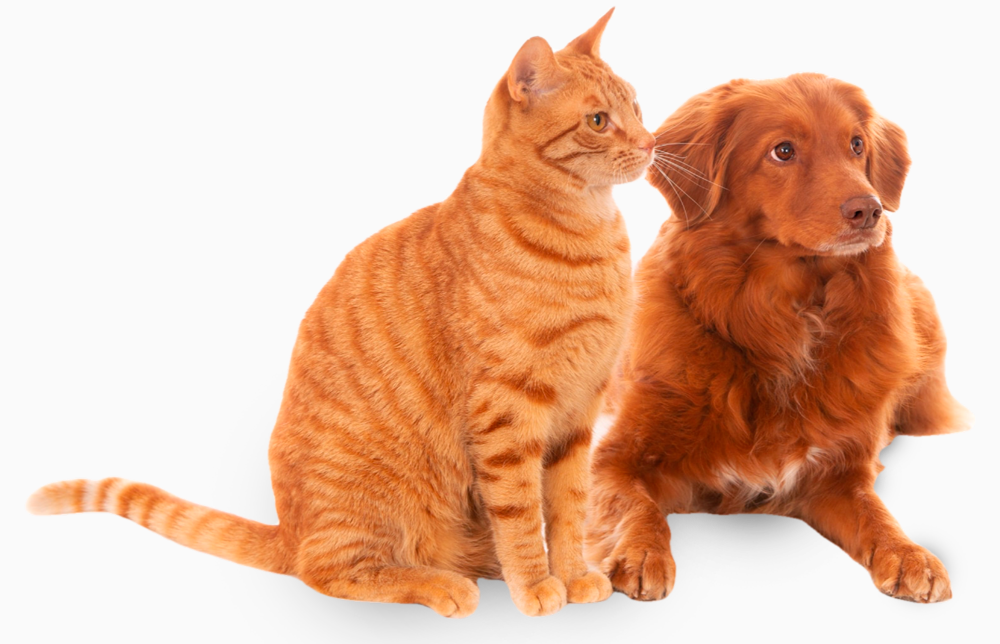
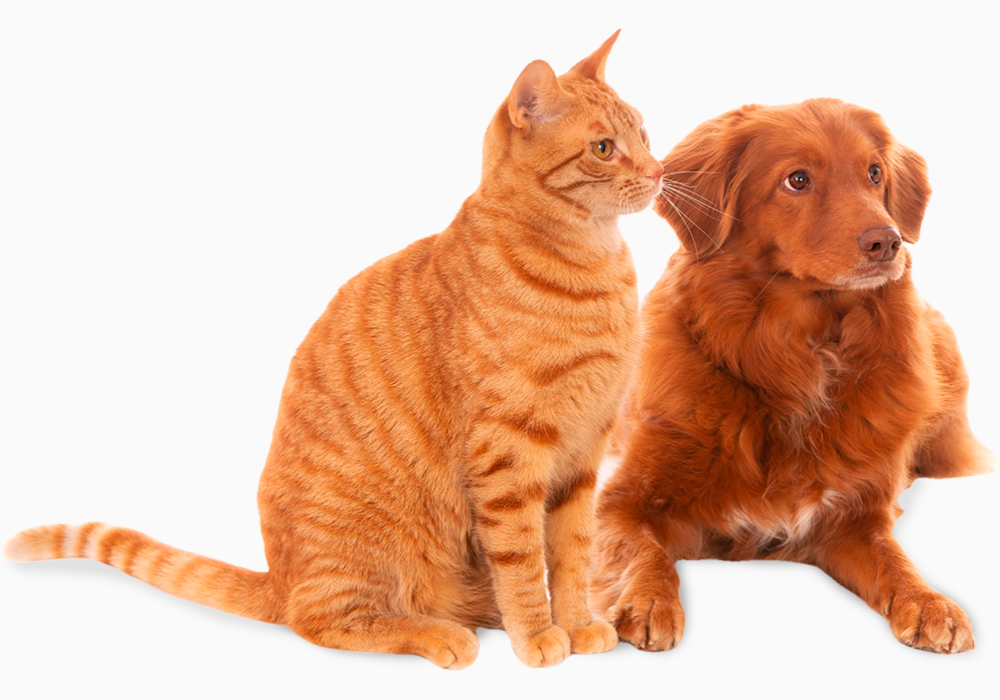
finalizado about

Changed region(s): [[0.0, 0.0, 0.992, 0.9938]]

diff --git a/css/style.scss b/css/style.scss
@@ -36,11 +36,9 @@ header {
     justify-content: space-between;
     align-items: center;
     p:first-child {
-        color:$rosa;
-        @include titulo(2);
+        @include titulo(2, $rosa);
     } p:last-child {
-        @include texto-simples(1);
-        color: $branco
+        @include texto-simples(1, $branco);
     }
     @include device(1000px) {
         margin: 0 30px;
@@ -61,8 +59,7 @@ nav {
                 border-bottom: 2px solid $rosa;
             }   
         } a {
-            @include texto-simples(1);
-            color: $branco;
+            @include texto-simples(1, $branco);
         } 
     }
 }
@@ -76,26 +73,24 @@ nav {
     img {
         max-width: 40%;
         height: auto;
+        margin: 0 auto;
         @include device(750px) {
             max-width: 60%;
         }
     }
     h1 {
-        @include titulo(3);
-        color: $branco;
+        @include titulo(3, $branco);
         font-weight: normal;
         margin-bottom: 20px;
     }
     p {
-        @include texto-simples(0.95);
-        color: $branco;
+        @include texto-simples(0.95, $branco);
         margin-bottom: 40px;
     }
     a {
-        @include titulo(1);
+        @include titulo(1, $cinza-escuro);
         padding: 10px 40px;
         background-color: $rosa;
-        color: $cinza-escuro;
         border-radius: 30px;
         font-weight: bold;
         transition: all .5s ease-in-out;
@@ -109,5 +104,45 @@ nav {
     }
     @include device(750px) {
         flex-direction: column;
+        text-align: center;
     }
+} 
+
+// about
+
+.about {
+    background-color: $branco;
+    padding: 100px 0;
+    @include device(1000px) {
+        padding: 30px;
+    }
+    & > div {
+        @include container;
+        align-items: center;
+        justify-content: space-between;
+        @include device(750px) {
+            flex-direction:column-reverse;
+        }
+        img {
+            max-width: 55%;
+            @include device(750px) {
+                max-width: 80%;
+            }
+        }
+        .text-about {
+            max-width: 40%;
+            @include device(750px) {
+                max-width: 80%;
+            }
+        }
+    } h2 {
+        @include titulo(2, $cinza-escuro);
+        margin-bottom: 20px;
+        font-weight: normal;
+        @include device(750px) {
+            text-align: center;
+        }
+    } p {
+        @include texto-simples(0.95, $cinza-escuro);
+    } 
 } 

diff --git a/index.html b/index.html
@@ -51,28 +51,30 @@
 
     <section class="about">
         <div>
+        
             <img src="imagens/about.png" alt="gato e cachorro ambos laranjas">
+            
+
+            <div class="text-about">
+                <h2>
+                    About the shelter <br>
+                    "Cozy House"
+                </h2>
+                <p>
+                    Lorem Ipsum is simply dummy text of the printing and typesetting industry. 
+                    Lorem Ipsum has been the industry's standard dummy text ever since the 1500s, 
+                    when an unknown printer took a galley of type and scrambled it to make a type specimen book
+                    
+                    <br><br>
+
+                    It has survived not only five centuries, but also the leap into electronic typesetting,
+                    remaining essentially unchanged. It was popularised in the 1960s with the release of 
+                    Letraset sheets containing Lorem Ipsum passages, and more recently with desktop publishing 
+                    software like Aldus PageMaker including versions of Lorem Ipsum. 
+                </p>
+            </div>
         </div>
 
-        <div>
-            <h2>
-                About the shelter <br>
-                "Cozy House"
-            </h2>
-            <p>
-                Lorem Ipsum is simply dummy text of the printing and typesetting industry. <br>
-                Lorem Ipsum has been the industry's standard dummy text ever since the 1500s, <br>
-                when an unknown printer took a galley of type and scrambled it to make a type specimen book
-                <br><br>
-
-                It has survived not only five centuries, but also the leap into electronic typesetting, <br>
-                remaining essentially unchanged. It was popularised in the 1960s with the release of <br>
-                Letraset sheets containing Lorem Ipsum passages, and more recently with desktop publishing <br>
-                software like Aldus PageMaker including versions of Lorem Ipsum. <br>
-                It is a long established fact that a reader will be distracted by the readable content of <br>
-                a page when looking at its layout. The point of using Lorem Ipsum is that it has a more-or-less.
-            </p>
-        </div>
     </section>
 
     <main>

diff --git a/css/style.css b/css/style.css
@@ -39,9 +39,9 @@ header {
   align-items: center;
 }
 .header p:first-child {
-  color: #eccfbb;
   font-size: 2rem;
   font-family: "Crimson Text", serif;
+  color: #eccfbb;
 }
 .header p:last-child {
   font-size: 1rem;
@@ -87,6 +87,7 @@ nav ul a {
 .intro img {
   max-width: 40%;
   height: auto;
+  margin: 0 auto;
 }
 @media screen and (max-width: 750px) {
   .intro img {
@@ -109,9 +110,9 @@ nav ul a {
 .intro a {
   font-size: 1rem;
   font-family: "Crimson Text", serif;
+  color: #545454;
   padding: 10px 40px;
   background-color: #eccfbb;
-  color: #545454;
   border-radius: 30px;
   font-weight: bold;
   transition: all 0.5s ease-in-out;
@@ -128,5 +129,62 @@ nav ul a {
 @media screen and (max-width: 750px) {
   .intro {
     flex-direction: column;
+    text-align: center;
   }
+}
+
+.about {
+  background-color: #fafafa;
+  padding: 100px 0;
+}
+@media screen and (max-width: 1000px) {
+  .about {
+    padding: 30px;
+  }
+}
+.about > div {
+  max-width: 1000px;
+  display: flex;
+  margin: 0 auto;
+  flex-wrap: wrap;
+  align-items: center;
+  justify-content: space-between;
+}
+@media screen and (max-width: 750px) {
+  .about > div {
+    flex-direction: column-reverse;
+  }
+}
+.about > div img {
+  max-width: 55%;
+}
+@media screen and (max-width: 750px) {
+  .about > div img {
+    max-width: 80%;
+  }
+}
+.about > div .text-about {
+  max-width: 40%;
+}
+@media screen and (max-width: 750px) {
+  .about > div .text-about {
+    max-width: 80%;
+  }
+}
+.about h2 {
+  font-size: 2rem;
+  font-family: "Crimson Text", serif;
+  color: #545454;
+  margin-bottom: 20px;
+  font-weight: normal;
+}
+@media screen and (max-width: 750px) {
+  .about h2 {
+    text-align: center;
+  }
+}
+.about p {
+  font-size: 0.95rem;
+  font-family: "Tahoma";
+  color: #545454;
 }/*# sourceMappingURL=style.css.map */

diff --git a/css/_variaveis-e-mixins.scss b/css/_variaveis-e-mixins.scss
@@ -6,14 +6,16 @@ $cinza-escuro: #545454;
 $font-1: 'Crimson Text', serif;
 $font-2: 'Tahoma';
 
-@mixin titulo($size) {
+@mixin titulo($size, $color) {
     font-size: $size + rem;
     font-family: $font-1;
+    color: $color;
 }
 
-@mixin texto-simples($size) {
+@mixin texto-simples($size, $color) {
     font-size: $size + rem;
     font-family: $font-2;
+    color: $color;
 }
 
 @mixin container {
